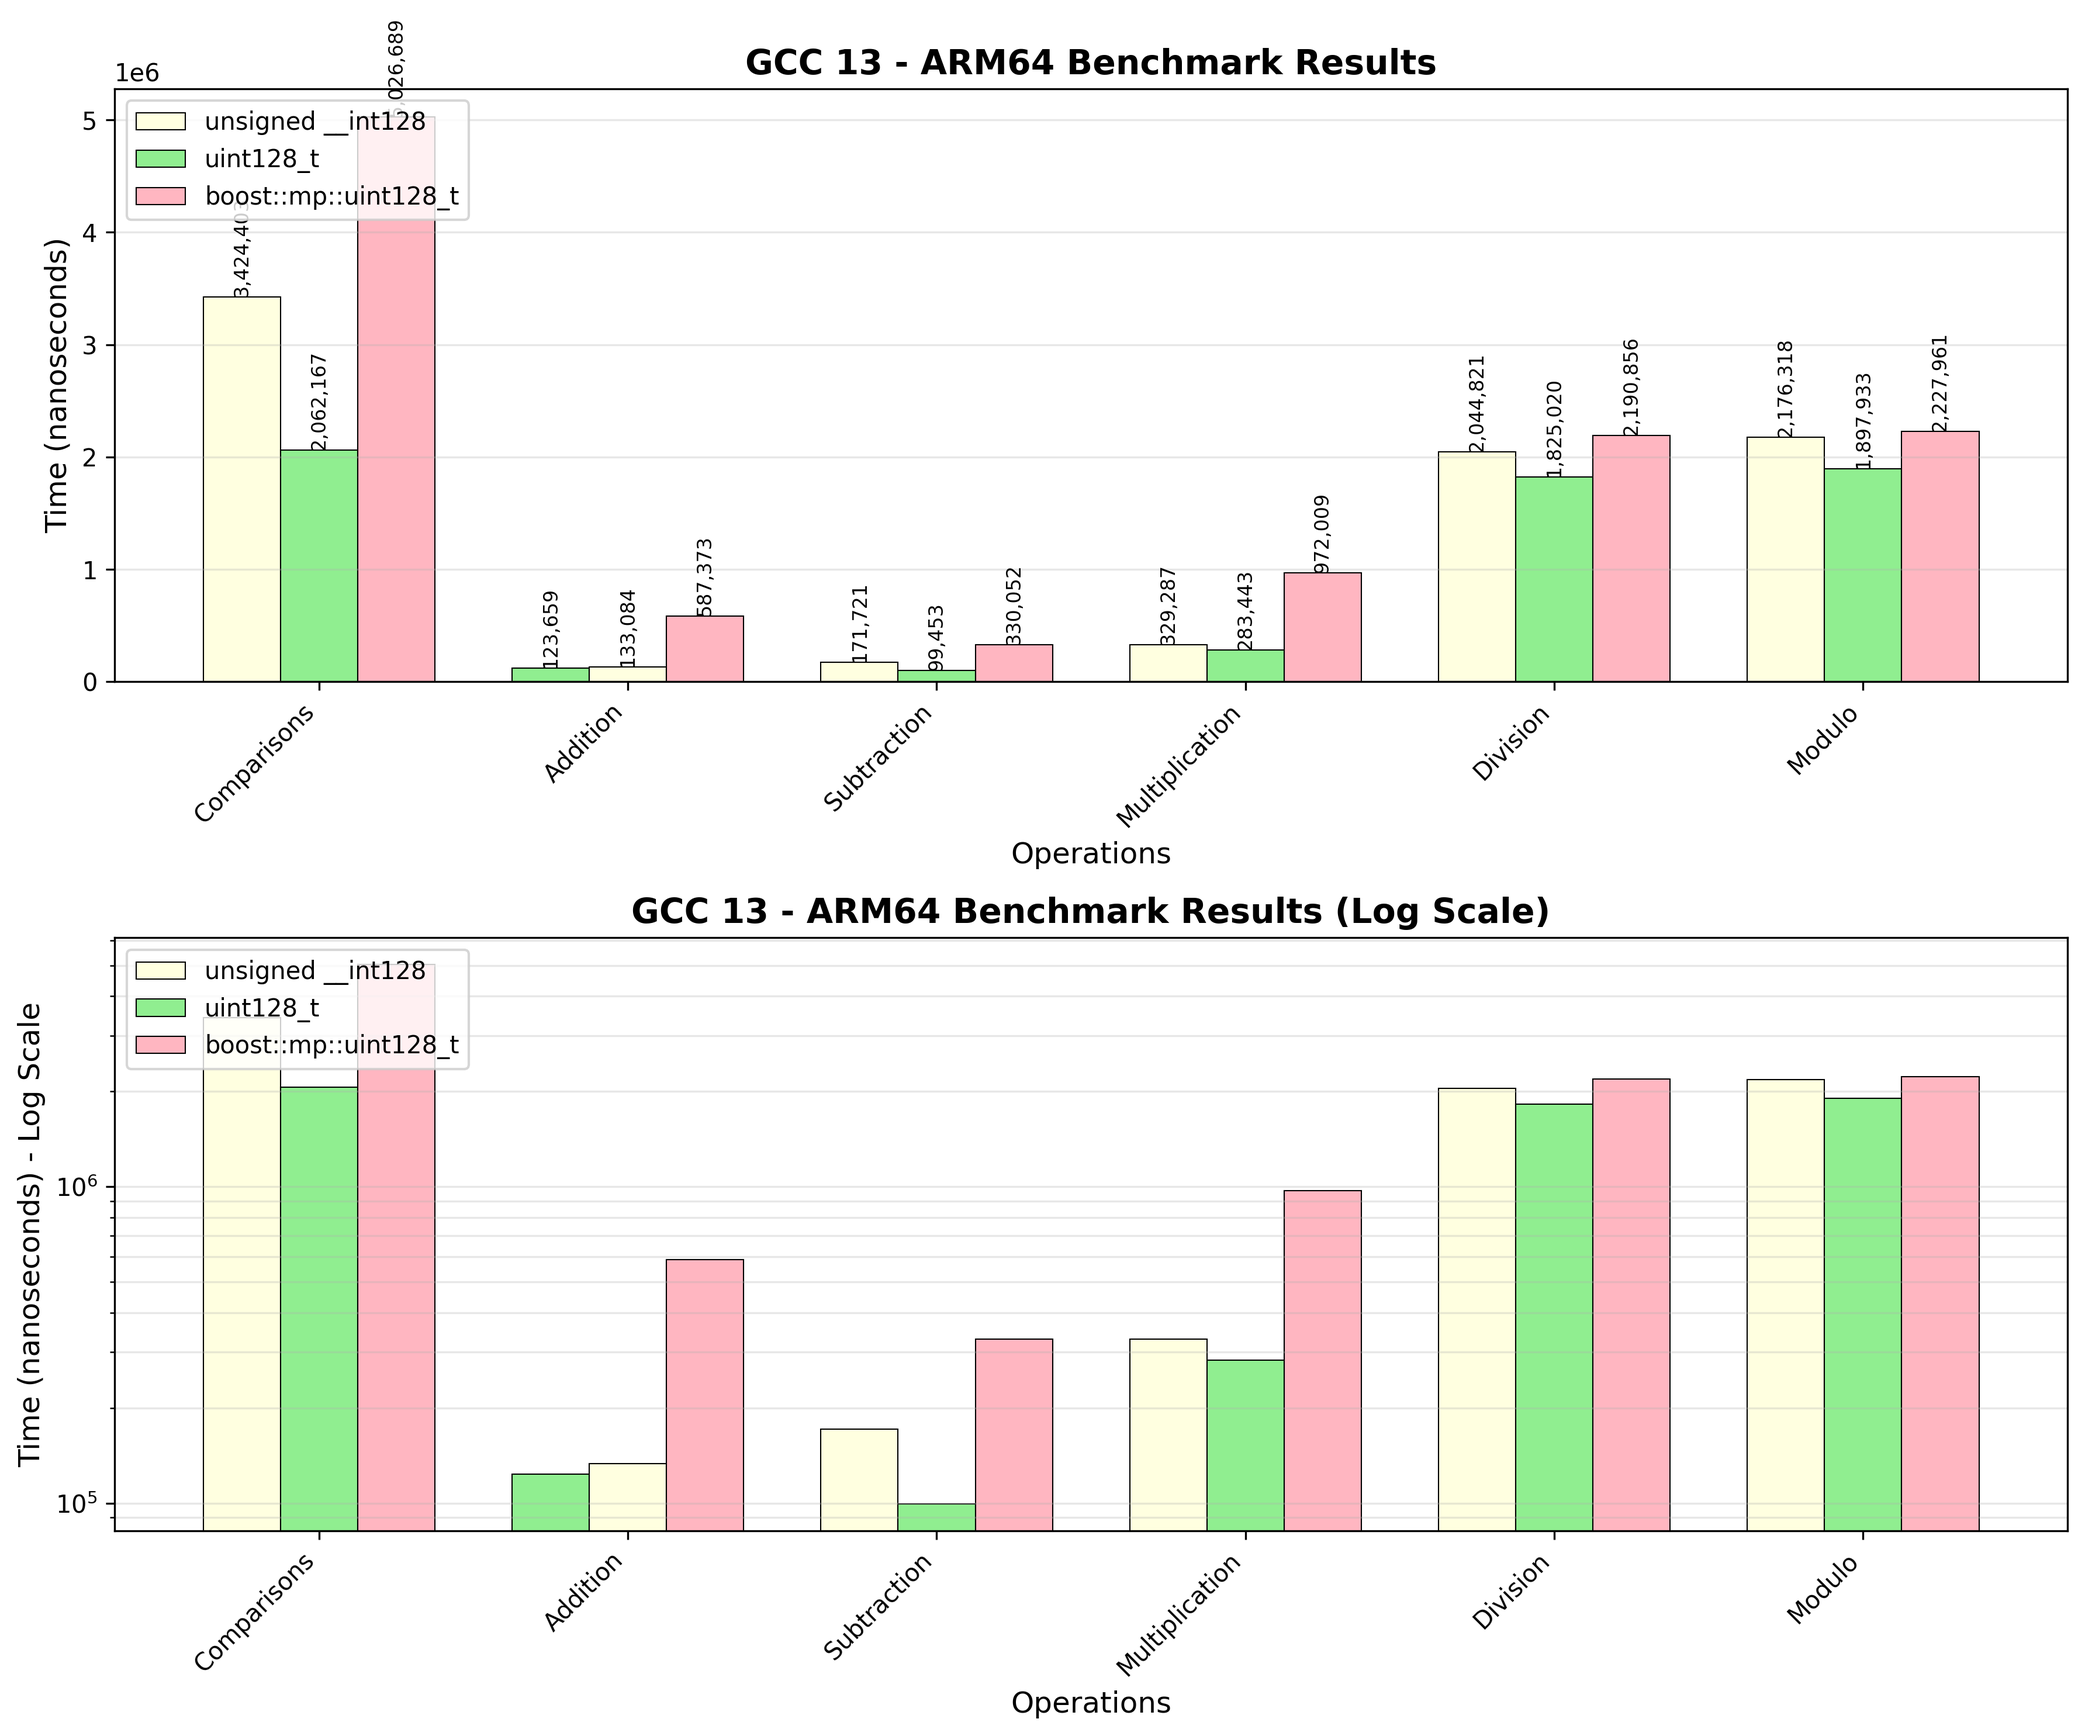
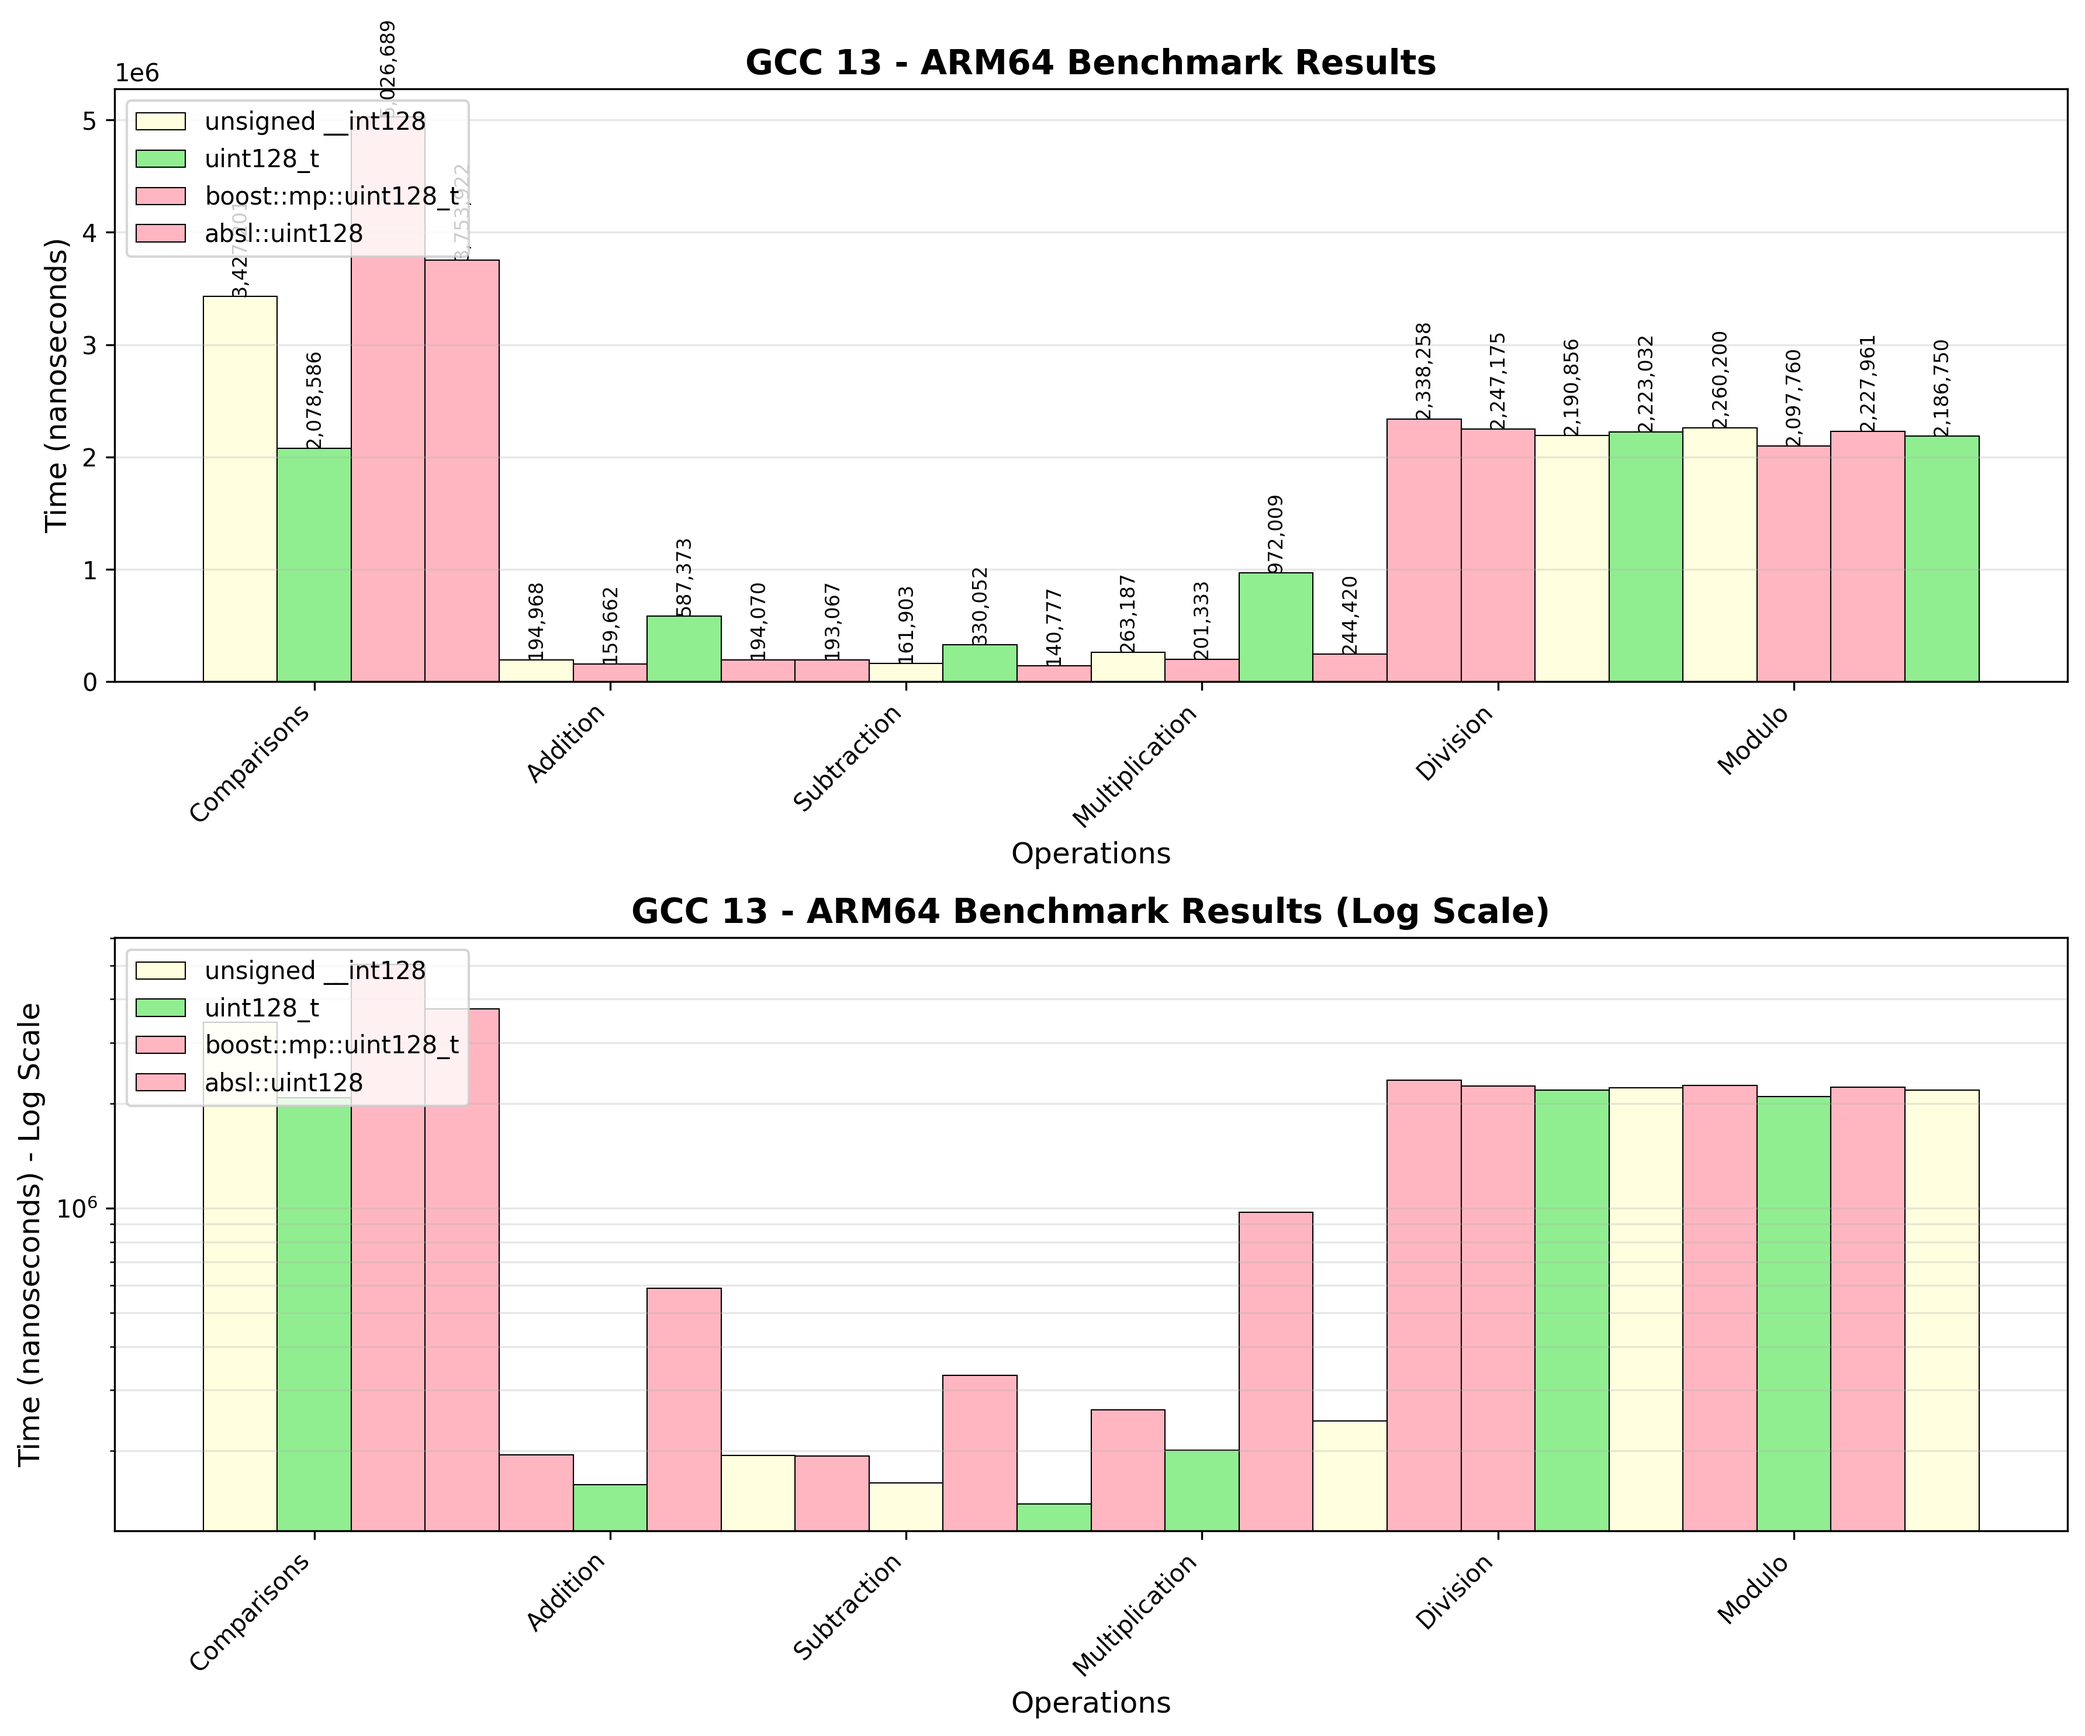
Update linux ARM64 data

diff --git a/doc/plots.py b/doc/plots.py
@@ -31,17 +31,16 @@ data = {
     'boost::mp::uint128_t': [3009890, 2710279, 3059187, 3495634, 4852899, 3926336]
 }
 """
-
 """
 # ARM64 macOS
 data = {
     'Operation': ['Comparisons', 'Addition', 'Subtraction', 'Multiplication', 'Division', 'Modulo'],
     'unsigned __int128': [131902, 20613, 20484, 20160, 686521, 777084],
     'uint128_t': [133564, 17912, 18237, 20580, 699201, 724648],
-    'boost::mp::uint128_t': [134182, 40176, 40311, 43285, 945928, 953117]
+    'boost::mp::uint128_t': [134182, 40176, 40311, 43285, 945928, 953117],
+    'absl::uint128': [132366, 20178, 20207, 20049, 672398, 734229]
 }
 """
-
 """
 # x64 macOS
 data = {
@@ -60,15 +59,15 @@ data = {
     'boost::mp::uint128_t': [3191439, 545521, 420573, 675361, 4976285, 4478923]
 }
 """
-"""
+
 # Linux ARM64
 data = {
     'Operation': ['Comparisons', 'Addition', 'Subtraction', 'Multiplication', 'Division', 'Modulo'],
-    'unsigned __int128': [3424403, 123659, 171721, 329287, 2044821, 2176318],
-    'uint128_t': [2062167, 133084, 99453, 283443, 1825020, 1897933],
-    'boost::mp::uint128_t': [5026689, 587373, 330052, 972009, 2190856, 2227961]
+    'unsigned __int128': [3427201, 194968, 193067, 263187, 2338258, 2260200],
+    'uint128_t': [2078586, 159662, 161903, 201333, 2247175, 2097760],
+    'boost::mp::uint128_t': [5026689, 587373, 330052, 972009, 2190856, 2227961],
+    'absl::uint128': [3753922, 194070, 140777, 244420, 2223032, 2186750]
 }
-"""
 
 """
 # Linux S390x
@@ -79,7 +78,7 @@ data = {
     'boost::mp::uint128_t': [16561079, 2909066, 2744664, 2384775, 7828137, 9172574]
 }
 """
-
+"""
 # Linux ppc64le
 data = {
     'Operation': ['Comparisons', 'Addition', 'Subtraction', 'Multiplication', 'Division', 'Modulo'],
@@ -87,7 +86,7 @@ data = {
     'uint128_t': [4450958, 193063, 175259, 192929, 4896360, 4273487],
     'boost::mp::uint128_t': [5704848, 847504, 786659, 795187, 5344637, 5407877]
 }
-
+"""
 df = pd.DataFrame(data)
 
 # Function to determine color based on ranking
@@ -125,7 +124,7 @@ for i, (idx, row) in enumerate(df.iterrows()):
 
 ax1.set_xlabel('Operations', fontsize=12)
 ax1.set_ylabel('Time (nanoseconds)', fontsize=12)
-ax1.set_title('GCC 14 - ppc64le Benchmark Results', fontsize=14, fontweight='bold')
+ax1.set_title('GCC 13 - ARM64 Benchmark Results', fontsize=14, fontweight='bold')
 ax1.set_xticks(x)
 ax1.set_xticklabels(operations, rotation=45, ha='right')
 ax1.legend(loc='upper left')
@@ -154,7 +153,7 @@ for i, impl in enumerate(implementations):
 
 ax2.set_xlabel('Operations', fontsize=12)
 ax2.set_ylabel('Time (nanoseconds) - Log Scale', fontsize=12)
-ax2.set_title('GCC 14 - ppc64le Benchmark Results (Log Scale)', fontsize=14, fontweight='bold')
+ax2.set_title('GCC 13 - ARM64 Benchmark Results (Log Scale)', fontsize=14, fontweight='bold')
 ax2.set_yscale('log')
 ax2.set_xticks(x)
 ax2.set_xticklabels(operations, rotation=45, ha='right')
@@ -162,7 +161,7 @@ ax2.legend(loc='upper left')
 ax2.grid(axis='y', alpha=0.3, which='both')
 
 plt.tight_layout()
-plt.savefig('ppc64le_benchmarks.png', dpi=300, bbox_inches='tight')
+plt.savefig('ARM64_benchmarks.png', dpi=300, bbox_inches='tight')
 plt.show()
 
 # Create a normalized performance chart
@@ -191,7 +190,7 @@ ax3.axhline(y=1.0, color='red', linestyle='--', alpha=0.5, label='unsigned __int
 
 ax3.set_xlabel('Operations', fontsize=12)
 ax3.set_ylabel('Relative Performance (vs unsigned __int128)', fontsize=12)
-ax3.set_title('Relative Performance Comparison - x64', fontsize=14, fontweight='bold')
+ax3.set_title('Relative Performance Comparison - ARM64', fontsize=14, fontweight='bold')
 ax3.set_xticks(x)
 ax3.set_xticklabels(operations, rotation=45, ha='right')
 ax3.legend()
@@ -202,7 +201,7 @@ ax3.text(0.02, 0.98, 'Lower is better', transform=ax3.transAxes,
          fontsize=10, verticalalignment='top', style='italic')
 
 plt.tight_layout()
-plt.savefig('ppc64le_relative_performance.png', dpi=300, bbox_inches='tight')
+plt.savefig('ARM64_relative_performance.png', dpi=300, bbox_inches='tight')
 plt.show()
 
 # Generate summary statistics
